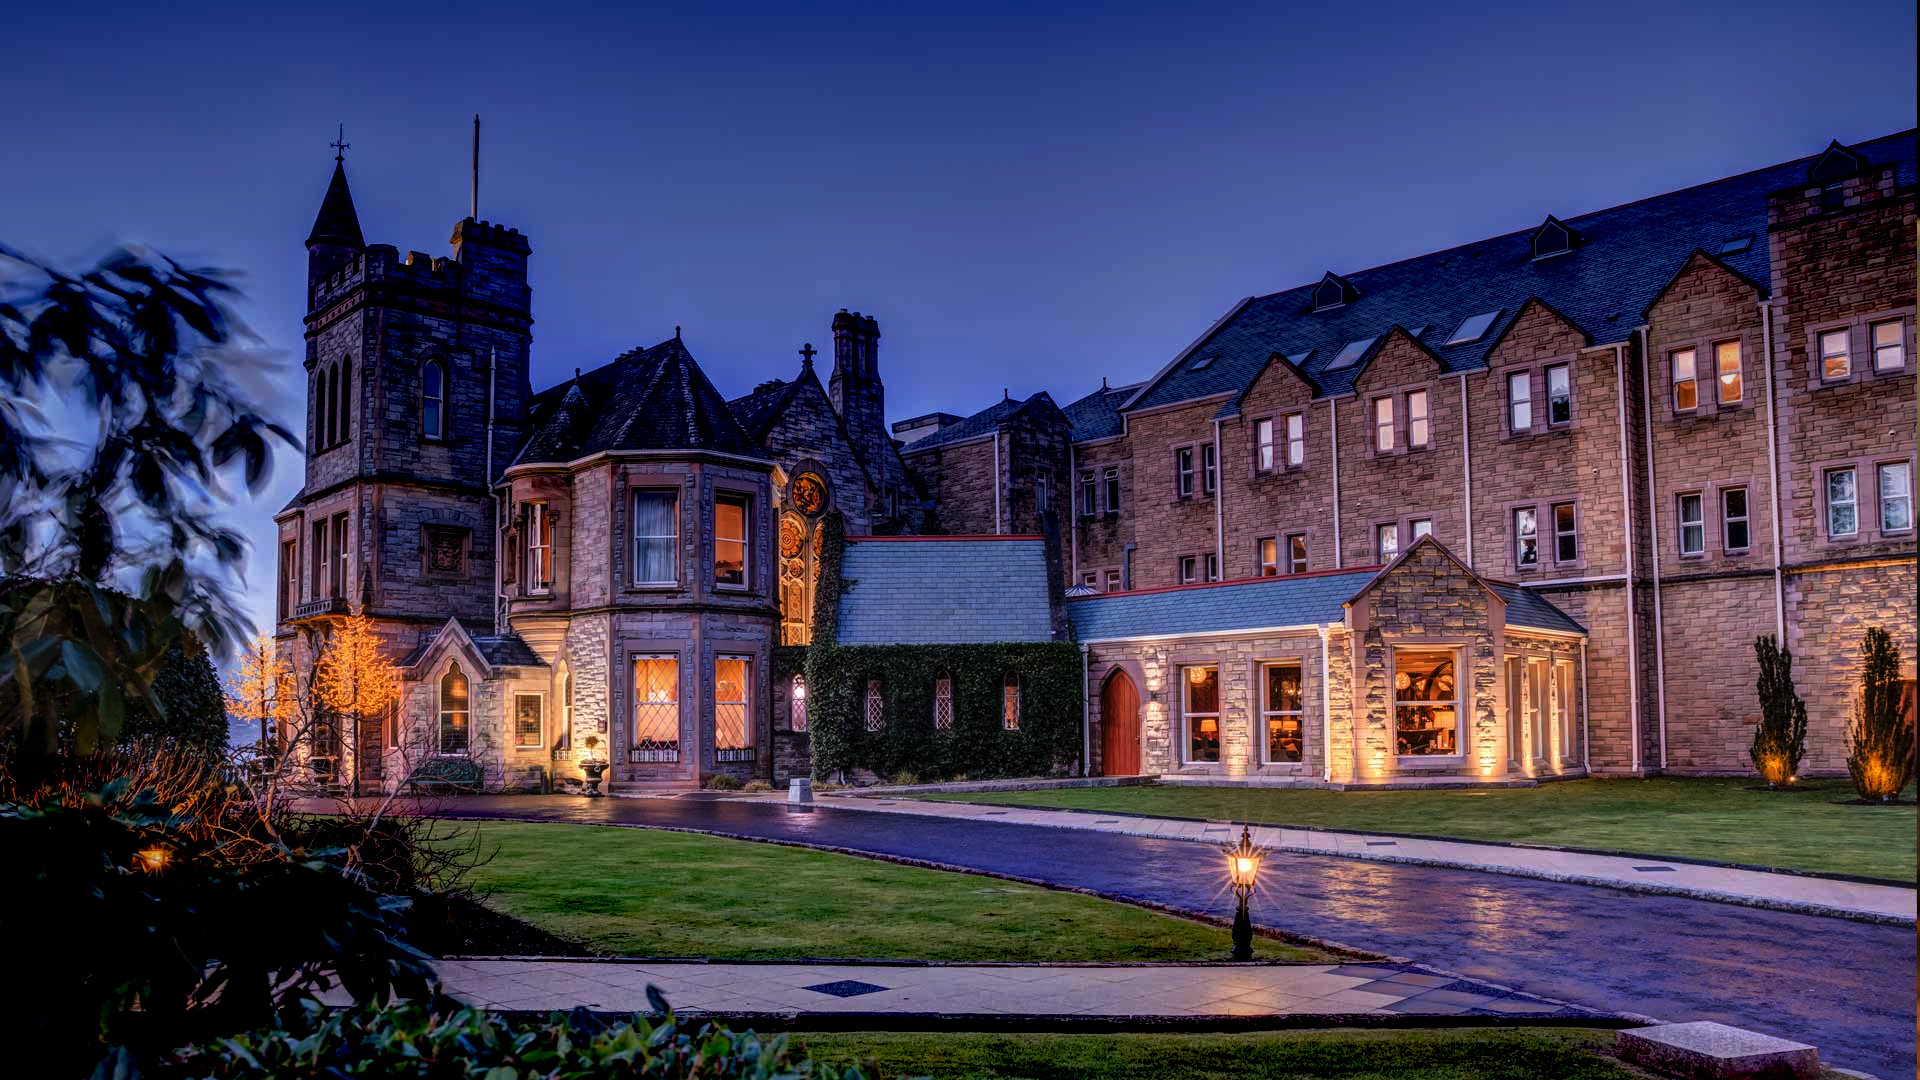
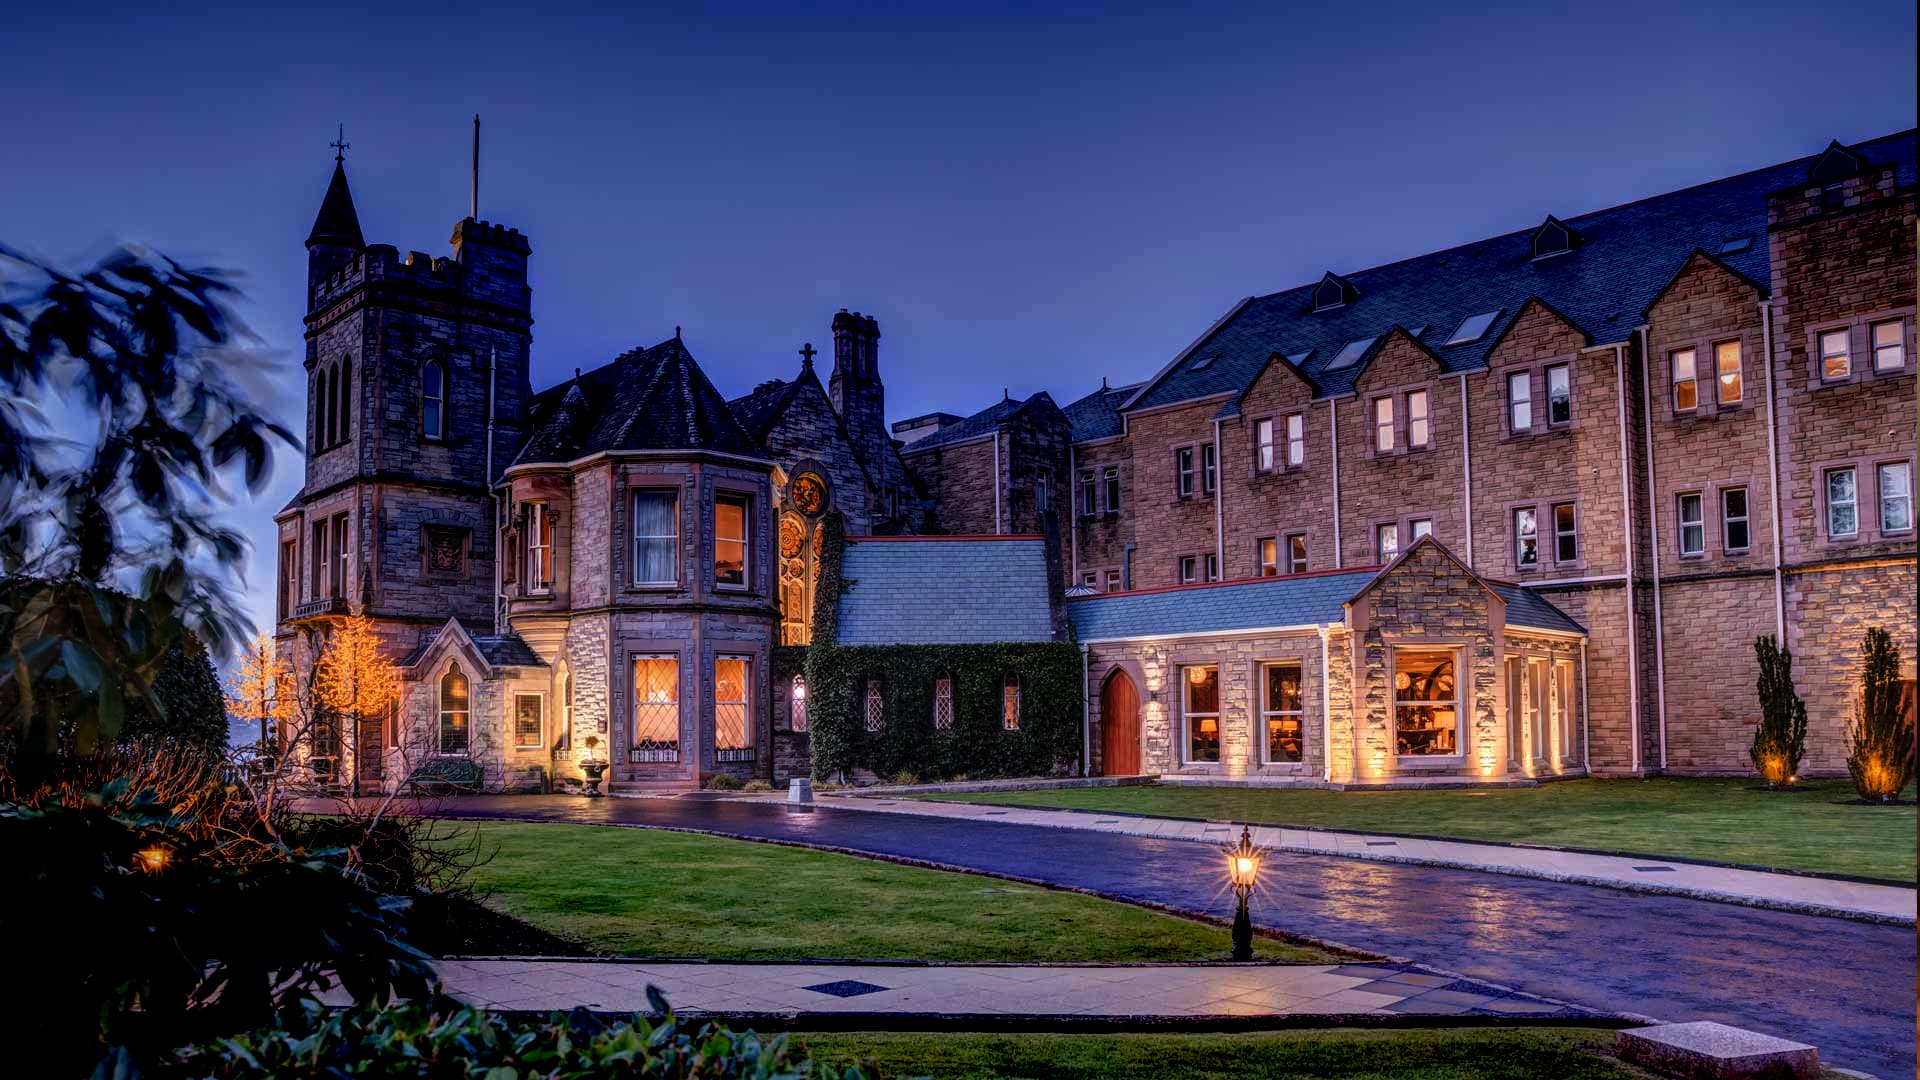
Optimise images

Changed region(s): [[0.0938, 0.7333, 0.125, 0.7944]]

diff --git a/index.html b/index.html
@@ -4,9 +4,9 @@
     <link href="https://fonts.googleapis.com/css?family=Parisienne:400|Playfair+Display:400,400i&display=swap" rel="stylesheet">
 
     <!-- image preloads -->
-    <link rel="preload" href="./images/culloden.png" as="image" />
-    <link rel="preload" href="./images/flower.png" as="image" />
-    <link rel="preload" href="./images/banner.png" as="image" />
+    <link rel="preload" href="./images/culloden.jpg" as="image" />
+    <link rel="preload" href="./images/flower.webp" as="image" />
+    <link rel="preload" href="./images/banner.webp" as="image" />
 
     <!-- Favicons -->
     <link rel="apple-touch-icon" sizes="57x57" href="./icons/apple-icon-57x57.png">
@@ -46,8 +46,8 @@
         <li>Holywood Suite, Culloden Hotel</li>
       </ul>
 
-      <img class="culloden" src="./images/culloden.png" alt="The Culloden Hotel lit up at night" />
-      <img class="flower" src="./images/flower.png" />
+      <img class="culloden" src="./images/culloden.jpg" alt="The Culloden Hotel lit up at night" />
+      <img class="flower" src="./images/flower.webp" />
     </main>
   </body>
 </html>

diff --git a/styles.css b/styles.css
@@ -11,7 +11,7 @@ body {
       rgba(256, 256, 256, 0) 90%,
       white 100%
     ),
-    url(./images/banner.png)
+    url(./images/banner.webp)
     repeat-x
     top center;
   margin-top: 180px;
